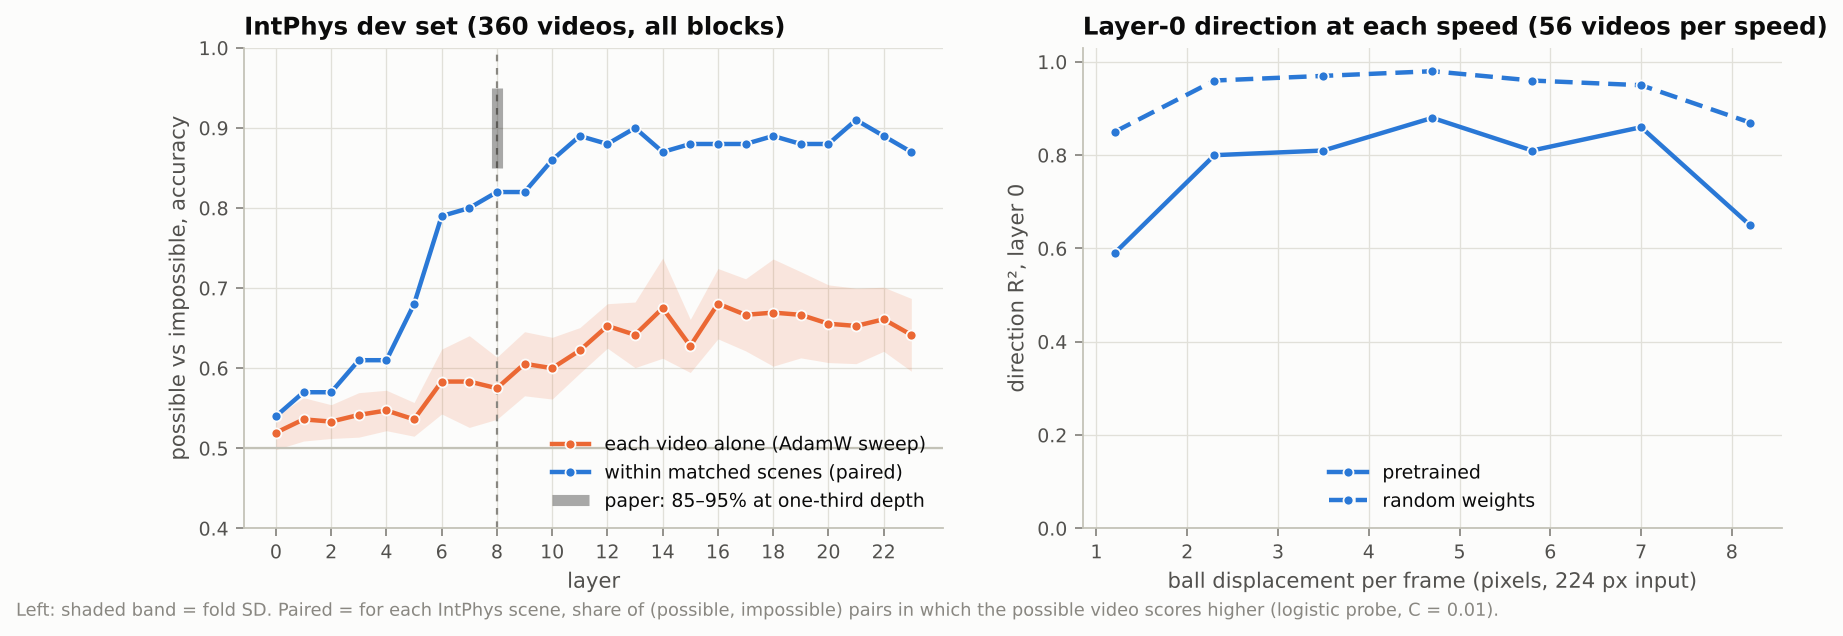
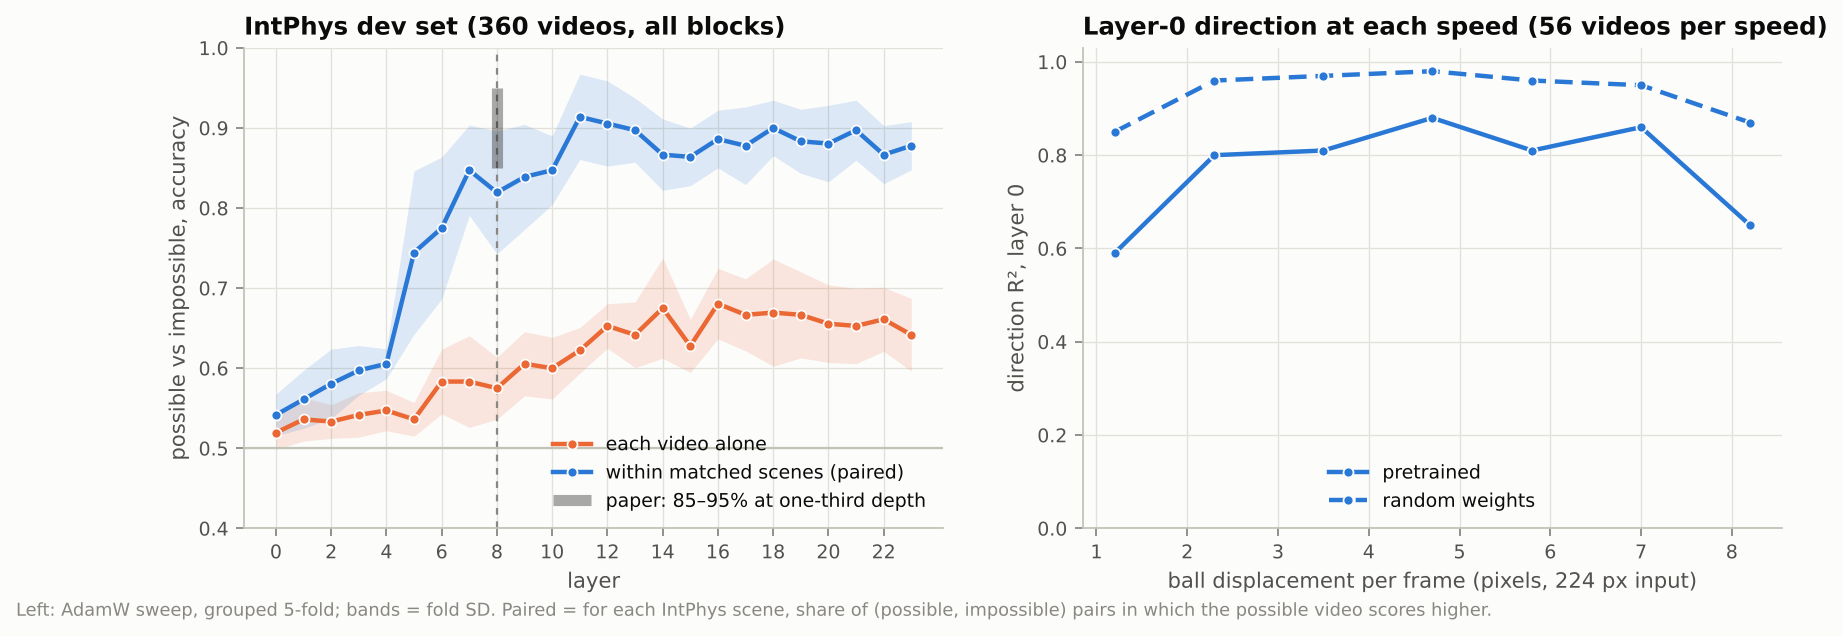
Plot the paired IntPhys accuracy from the paper's probe sweep
fig8 now draws per-video and paired accuracy from intphys_probe_paired.csv
(AdamW sweep) with fold-SD bands, instead of the fixed-penalty logistic check.

Changed region(s): [[0.1237, 0.1195, 0.4948, 0.6871], [0.0309, 0.9261, 0.8041, 0.9858], [0.3093, 0.6871, 0.4948, 0.8066]]

diff --git a/docs/make_figures.py b/docs/make_figures.py
@@ -242,12 +242,12 @@ def fig_shape():
 def fig_intphys():
     fig, axes = plt.subplots(1, 2, figsize=(12.4, 3.9))
     ax = axes[0]
-    d = pd.read_csv(RES / "intphys_probe.csv").sort_values("layer")
-    c = pd.read_csv(RES / "intphys_scoring_check.csv")
-    ax.fill_between(d.layer, d.accuracy_mean - d.accuracy_std, d.accuracy_mean + d.accuracy_std,
-                    color=CAT[1], alpha=0.15, lw=0)
-    line(ax, d.layer, d.accuracy_mean, CAT[1], "each video alone (AdamW sweep)")
-    line(ax, c.layer, c.paired, CAT[0], "within matched scenes (paired)")
+    d = pd.read_csv(RES / "intphys_probe_paired.csv").sort_values("layer")
+    for m, color, label in (("accuracy", CAT[1], "each video alone"),
+                            ("paired_accuracy", CAT[0], "within matched scenes (paired)")):
+        ax.fill_between(d.layer, d[f"{m}_mean"] - d[f"{m}_std"], d[f"{m}_mean"] + d[f"{m}_std"],
+                        color=color, alpha=0.15, lw=0)
+        line(ax, d.layer, d[f"{m}_mean"], color, label)
     ax.plot([PEZ, PEZ], [0.85, 0.95], color=INK, lw=5, solid_capstyle="butt", alpha=0.35,
             label="paper: 85–95% at one-third depth")
     ax.axhline(0.5, color=AXIS, lw=1)
@@ -263,8 +263,8 @@ def fig_intphys():
     ax.set_ylim(0, 1.03)
     ax.set_title("Layer-0 direction at each speed (56 videos per speed)")
     ax.legend(loc="lower center")
-    fig.text(0.01, -0.03, "Left: shaded band = fold SD. Paired = for each IntPhys scene, share of (possible, impossible) "
-             "pairs in which the possible video scores higher (logistic probe, C = 0.01).", fontsize=8, color=MUTED)
+    fig.text(0.01, -0.03, "Left: AdamW sweep, grouped 5-fold; bands = fold SD. Paired = for each IntPhys scene, share of "
+             "(possible, impossible) pairs in which the possible video scores higher.", fontsize=8, color=MUTED)
     save(fig, "fig8_intphys_and_speed.png")
 
 
